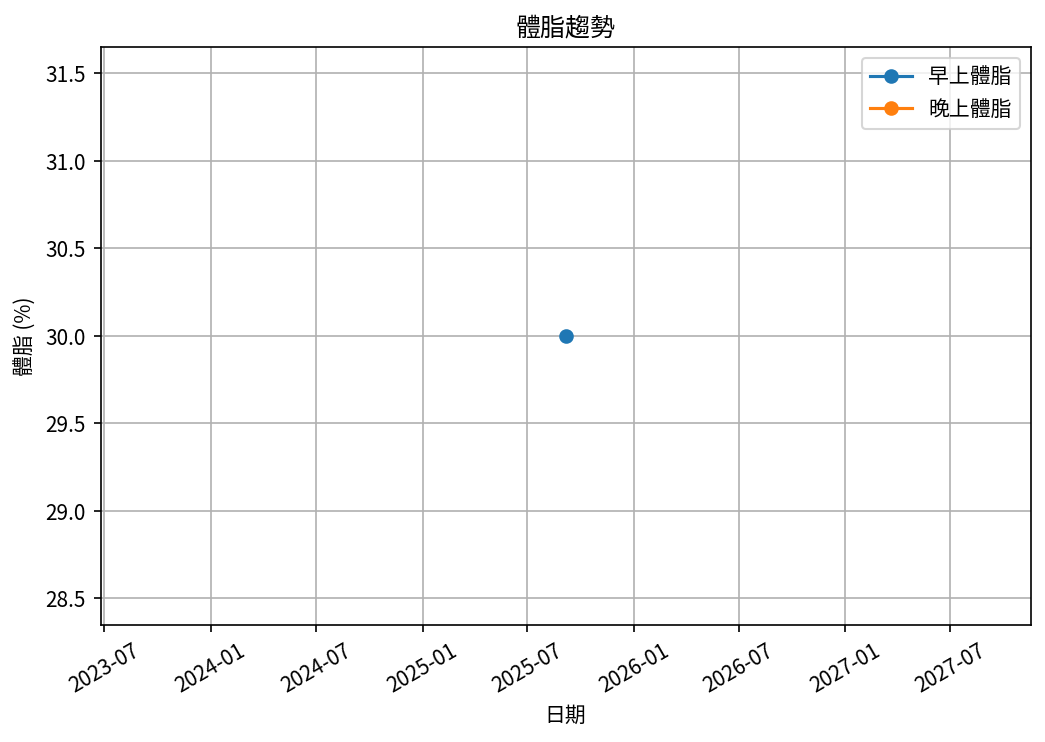
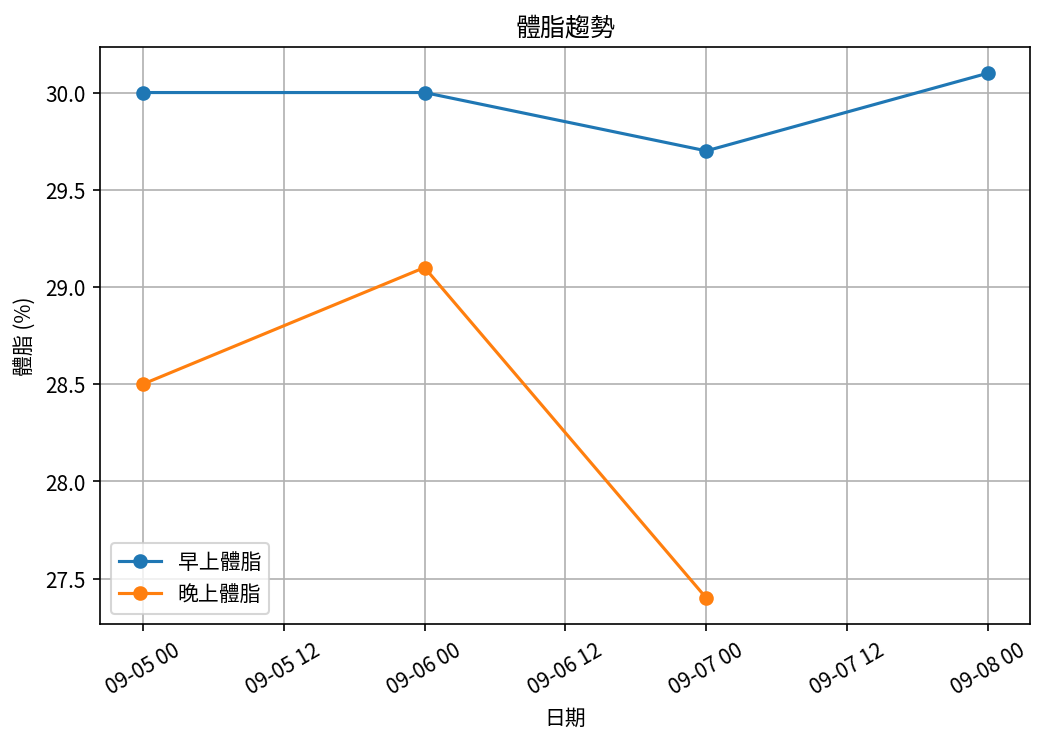
Update values

diff --git a/reports/summary/overall_summary_report.md b/reports/summary/overall_summary_report.md
@@ -1,7 +1,7 @@
 # 📊 減重總結報告
 
-**總期間：2025/08/15 ～ 2025/09/05**  
-**追蹤期間：22 天 (4 週)**  
+**總期間：2025/08/15 ～ 2025/09/08**  
+**追蹤期間：25 天 (4 週)**  
 
 ---
 
@@ -13,13 +13,13 @@
 |:-----------|:------------|:------------|:-----------|:-----------|
 | 08/15 (週五) | 109.0       | 109.8       | nan        | 29.0       |
 | ...        | ...         | ...         | ...        | ...        |
-| 08/30 (週六) | 104.3       | 104.2       | 30.2       | 27.9       |
-| 08/31 (週日) | 103.6       | 104.1       | 30.1       | 29.4       |
-| 09/01 (週一) | 104.0       | 103.6       | 30.3       | 28.0       |
 | 09/02 (週二) | 103.9       | 103.9       | 29.7       | 27.7       |
 | 09/03 (週三) | 103.4       | 103.4       | 29.9       | 28.4       |
 | 09/04 (週四) | 103.0       | 103.8       | 29.6       | 29.5       |
-| 09/05 (週五) | 103.0       | nan         | 30.0       | nan        |
+| 09/05 (週五) | 103.0       | 103.9       | 30.0       | 28.5       |
+| 09/06 (週六) | 102.7       | 103.8       | 30.0       | 29.1       |
+| 09/07 (週日) | 102.7       | 103.3       | 29.7       | 27.4       |
+| 09/08 (週一) | 103.1       | nan         | 30.1       | nan        |
 
 ---
 
@@ -32,23 +32,24 @@
 
 ## 📌 總體統計
 
-- **體重（AM）**：109.0 → 103.0 kg  (**-6.0 kg**), 總平均 105.7 kg  
-- **體重（PM）**：109.8 → 103.8 kg  (**-6.0 kg**), 總平均 106.2 kg  
-- **體重（AM+PM 平均）**：105.9 kg  
+- **體重（AM）**：109.0 → 103.1 kg  (**-5.9 kg**), 總平均 105.3 kg  
+- **體重（PM）**：109.8 → 103.3 kg  (**-6.5 kg**), 總平均 105.8 kg  
+- **體重（AM+PM 平均）**：105.6 kg  
 
-- **體脂（AM）**：30.3% → 30.0%  (**-0.3%**), 總平均 30.2%  
-- **體脂（PM）**：29.0% → 29.5%  (**0.5%**), 總平均 28.3%  
+- **體脂（AM）**：30.3% → 30.1%  (**-0.2%**), 總平均 30.2%  
+- **體脂（PM）**：29.0% → 27.4%  (**-1.6%**), 總平均 28.3%  
 - **體脂（AM+PM 平均）**：29.3%  
 
-- **追蹤天數**：22 天  
+- **追蹤天數**：25 天  
 - 平均每週體重變化（AM）：-1.5 kg/週  
-- 平均每週體重變化（PM）：-1.5 kg/週
+- 平均每週體重變化（PM）：-1.6 kg/週
 
 ---
 
 ## 🎯 重點成果
 
-✅ **體重減少**：在 22 天內減重 6.0 kg（早上測量）  
+✅ **體重減少**：在 25 天內減重 5.9 kg（早上測量）  
+✅ **體脂下降**：體脂率降低 1.6%（晚上測量）  
 
 ## ✅ 持續建議
 - 維持 **高蛋白 (每公斤 1.6–2.0 g)** 與 **每週 2–3 次阻力訓練**  

diff --git a/reports/2025-CW04/2025-CW04_weekly_report.md b/reports/2025-CW04/2025-CW04_weekly_report.md
@@ -8,7 +8,10 @@
 
 | 日期         |   早上體重 (kg) |   晚上體重 (kg) |   早上體脂 (%) |   晚上體脂 (%) |
 |:-----------|------------:|------------:|-----------:|-----------:|
-| 09/05 (週五) |         103 |         nan |         30 |        nan |
+| 09/05 (週五) |       103   |       103.9 |       30   |       28.5 |
+| 09/06 (週六) |       102.7 |       103.8 |       30   |       29.1 |
+| 09/07 (週日) |       102.7 |       103.3 |       29.7 |       27.4 |
+| 09/08 (週一) |       103.1 |       nan   |       30.1 |      nan   |
 
 ---
 
@@ -21,15 +24,15 @@
 
 ## 📌 本週統計
 
-- 體重（AM）：103.0 → 103.0 kg  (**0.0 kg**), 週平均 103.0 kg  
-- 體重（PM）：- → - kg  (**- kg**), 週平均 nan kg  
-- 體重（AM+PM 平均）：103.0 kg  
+- 體重（AM）：103.0 → 103.1 kg  (**0.1 kg**), 週平均 102.9 kg  
+- 體重（PM）：103.9 → 103.3 kg  (**-0.6 kg**), 週平均 103.7 kg  
+- 體重（AM+PM 平均）：103.3 kg  
 
-- 體脂（AM）：30.0% → 30.0%  (**0.0%**), 週平均 30.0%  
-- 體脂（PM）：-% → -%  (**-%**), 週平均 nan%  
-- 體脂（AM+PM 平均）：30.0%  
+- 體脂（AM）：30.0% → 30.1%  (**0.1%**), 週平均 30.0%  
+- 體脂（PM）：28.5% → 27.4%  (**-1.1%**), 週平均 28.3%  
+- 體脂（AM+PM 平均）：29.1%  
 
-- 紀錄天數：1 天
+- 紀錄天數：4 天
 
 ---
 
